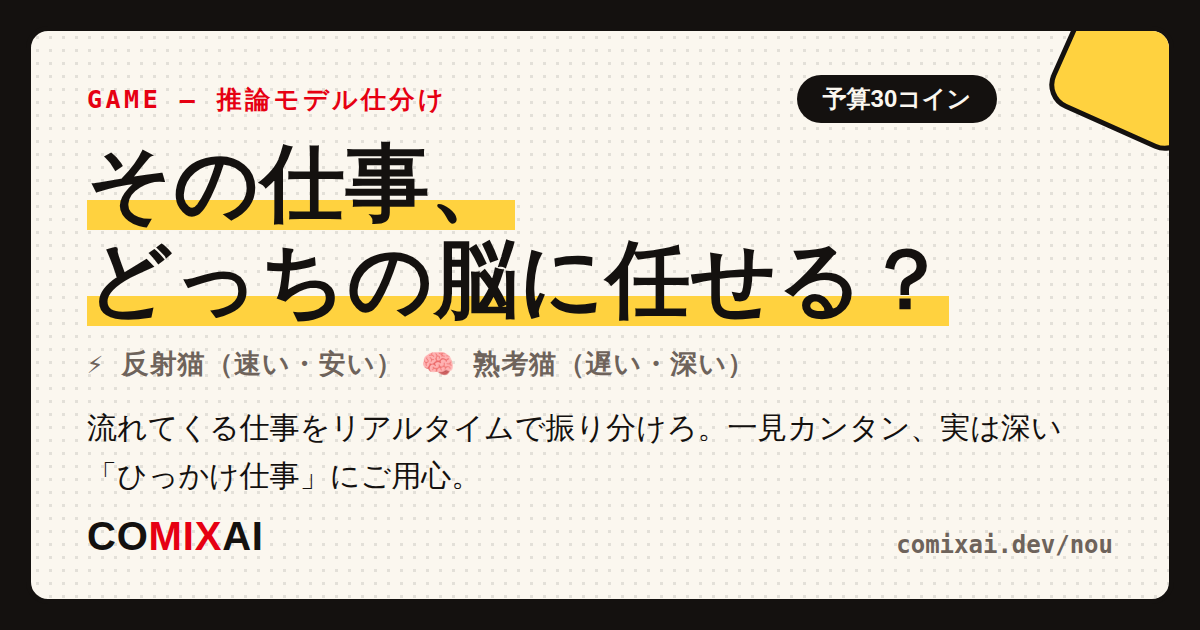
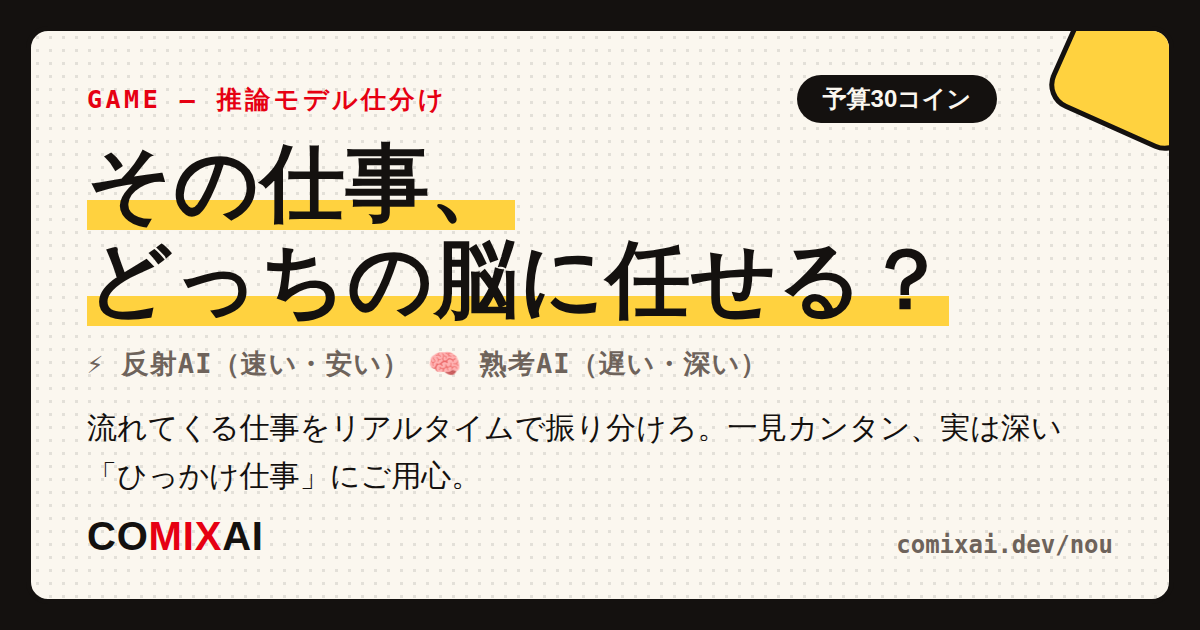
fix: stop referring to the mascot character as a cat
キャラクターを「猫」と呼ぶ表現を一掃:
- AI社長: 調査猫/執筆猫/チェック猫 → 調査係/執筆係/チェック係
- 速い脳・遅い脳: 反射猫/熟考猫 → 反射AI/熟考AI
- 警備: 鉄壁のセキュリティ猫 → 鉄壁のセキュリティ、開始画面の🐱→🤖
- 楽屋: 名店の看板猫 → 名店の看板AI
- 図鑑・用語集の扉文言・OGP画像（shacho/nou）も同期
※題材としての猫（吾輩は猫である、育成ゲームの猫の写真など）は対象外

Claude-Session: https://claude.ai/code/session_01E23SyHF6KwmvrF3RLKpRqp

Changed region(s): [[0.1233, 0.5429, 0.6475, 0.6032]]

diff --git a/src/app/nou/game.tsx b/src/app/nou/game.tsx
@@ -1,7 +1,7 @@
 "use client";
 /* ============================================================
    「速い脳・遅い脳」— 推論モデル仕分けゲーム。
-   流れてくる仕事を、反射猫（速い・安い・浅い）と熟考猫（遅い・
+   流れてくる仕事を、反射AI（速い・安い・浅い）と熟考AI（遅い・
    高い・深い）に振り分けるリアルタイム資源管理。
    簡単そうで深い「ひっかけ仕事」が混ざっている。
    すべてクライアント完結。
@@ -87,7 +87,7 @@ export function NouGame() {
     return () => clearInterval(t);
   }, [phase, feedback, idx]);
 
-  /* 時間切れ → あわてて反射猫に流れる */
+  /* 時間切れ → あわてて反射AIに流れる */
   React.useEffect(() => {
     if (phase === "play" && !feedback && timeLeft <= 0) assign("fast", true);
     // eslint-disable-next-line react-hooks/exhaustive-deps
@@ -104,13 +104,13 @@ export function NouGame() {
 
     if (job.deep && usedBrain === "fast") {
       setLives((l) => l - 1);
-      setFeedback({ ok: false, icon: "💥", text: `${timeout ? "時間切れで反射猫に流れた！" : ""}反射猫が浅い答えで事故…。${job.note}` });
+      setFeedback({ ok: false, icon: "💥", text: `${timeout ? "時間切れで反射AIに流れた！" : ""}反射AIが浅い答えで事故…。${job.note}` });
     } else if (!job.deep && usedBrain === "slow") {
       setScore((s) => s + 0); // オーバーキルはノーカウント（コインだけ減る）
-      setFeedback({ ok: false, icon: "🐢", text: `熟考猫が3分考えて「こんにちは」と返しました。正解だけどコストが…。${job.note}` });
+      setFeedback({ ok: false, icon: "🐢", text: `熟考AIが3分考えて「こんにちは」と返しました。正解だけどコストが…。${job.note}` });
     } else {
       setScore((s) => s + 1);
-      setFeedback({ ok: true, icon: usedBrain === "fast" ? "⚡" : "🧠", text: `${usedBrain === "fast" ? "反射猫が秒で処理！" : "熟考猫がじっくり解決！"}${job.note}` });
+      setFeedback({ ok: true, icon: usedBrain === "fast" ? "⚡" : "🧠", text: `${usedBrain === "fast" ? "反射AIが秒で処理！" : "熟考AIがじっくり解決！"}${job.note}` });
     }
   };
 
@@ -143,7 +143,7 @@ export function NouGame() {
           <div style={{ fontSize: 52 }}>⚡🧠</div>
           <h2 style={{ margin: "8px 0 10px", fontFamily: "var(--font-display)", fontWeight: 900, fontSize: "clamp(22px,3.6vw,28px)" }}>その仕事、どっちの脳に任せる？</h2>
           <p style={{ margin: "0 auto 8px", fontSize: 14, lineHeight: 1.9, color: "var(--text-body)", maxWidth: 460 }}>
-            流れてくる仕事{JOBS.length}件を、<b>反射猫⚡（{COST_FAST}コイン・速いが浅い）</b>と<b>熟考猫🧠（{COST_SLOW}コイン・遅いが深い）</b>に振り分けてください。予算は{COIN_START}コイン、ミスは3回まで。
+            流れてくる仕事{JOBS.length}件を、<b>反射AI⚡（{COST_FAST}コイン・速いが浅い）</b>と<b>熟考AI🧠（{COST_SLOW}コイン・遅いが深い）</b>に振り分けてください。予算は{COIN_START}コイン、ミスは3回まで。
           </p>
           <p style={{ margin: "0 0 18px", fontFamily: "var(--font-hand)", fontSize: 13, color: "var(--text-muted)" }}>※「一見カンタン、実は深い」ひっかけ仕事が混ざっています</p>
           <Button variant="primary" size="lg" onClick={start} iconRight={<i className="ph-bold ph-lightning" />}>
@@ -227,7 +227,7 @@ export function NouGame() {
           disabled={!!feedback}
           style={{ flex: 1, fontFamily: "var(--font-heading)", fontWeight: 900, fontSize: 15, padding: "16px 10px", borderRadius: "var(--radius-md)", border: "var(--bw-line) solid var(--ink-900)", background: "var(--paper-0)", cursor: "pointer", boxShadow: "var(--shadow-pop-sm)" }}
         >
-          ⚡ 反射猫
+          ⚡ 反射AI
           <span style={{ display: "block", fontFamily: "var(--font-mono)", fontWeight: 700, fontSize: 11, color: "var(--text-muted)", marginTop: 2 }}>{COST_FAST}コイン・秒で返す</span>
         </button>
         <button
@@ -236,7 +236,7 @@ export function NouGame() {
           disabled={!!feedback || coins < COST_SLOW}
           style={{ flex: 1, fontFamily: "var(--font-heading)", fontWeight: 900, fontSize: 15, padding: "16px 10px", borderRadius: "var(--radius-md)", border: "var(--bw-line) solid var(--ink-900)", background: coins < COST_SLOW ? "var(--paper-100)" : "var(--yellow-400)", cursor: coins < COST_SLOW ? "not-allowed" : "pointer", boxShadow: "var(--shadow-pop-sm)", opacity: coins < COST_SLOW ? 0.55 : 1 }}
         >
-          🧠 熟考猫
+          🧠 熟考AI
           <span style={{ display: "block", fontFamily: "var(--font-mono)", fontWeight: 700, fontSize: 11, color: "var(--text-muted)", marginTop: 2 }}>{COST_SLOW}コイン・じっくり考える</span>
         </button>
       </div>

diff --git a/src/app/slop/game.tsx b/src/app/slop/game.tsx
@@ -31,7 +31,7 @@ const POSTS: Post[] = [
   { icon: "🤖", title: "AIとは何か？初心者にもわかりやすく解説します", body: "AIとは人工知能のことです。人工知能とはAIのことです。近年、AIが注目されています。", source: "SEO記事", slop: true, tell: "同じことの言い換えだけで進まない。検索順位のためだけの文章" },
   { icon: "🐛", title: "本番DBを消しかけた話——障害対応の一部始終", body: "金曜18時、migrationのミスに気づいた。restoreに使ったコマンドと、二度とやらないための仕組みを書く。", source: "エンジニアブログ", slop: false, tell: "失敗談＋具体的なコマンド。書いた人にしか書けない内容" },
   { icon: "🌟", title: "【2026年最新】おすすめAIツール50選！徹底比較", body: "1. ChatGPT：便利なAIです。2. Claude：便利なAIです。3. Gemini：便利なAIです。（以下47個続く）", source: "アフィリエイトサイト", slop: true, tell: "全部「便利なAIです」。比較と言いながら何も比較していない" },
-  { icon: "🎨", title: "Midjourneyで猫キャラを統一する試行錯誤", body: "orefで失敗した設定値とプロンプト全文を載せる。うまくいかなかった生成例も貼っておく。", source: "クリエイターのnote", slop: false, tell: "失敗例まで公開している。二次利用できる具体情報" },
+  { icon: "🎨", title: "Midjourneyでキャラクターを統一する試行錯誤", body: "orefで失敗した設定値とプロンプト全文を載せる。うまくいかなかった生成例も貼っておく。", source: "クリエイターのnote", slop: false, tell: "失敗例まで公開している。二次利用できる具体情報" },
   { icon: "📢", title: "速報：有名企業がAIで全社員を解雇と発表", body: "詳細は不明ですが、SNSで話題になっています。真偽は不明ですが拡散します。", source: "速報アカウント", slop: true, tell: "「真偽は不明ですが拡散」——それを世間ではデマと呼ぶ" },
   { icon: "📚", title: "図書館司書が選ぶ、AI時代に読みたい本5冊", body: "貸出データで実際に予約が伸びた本から選定。各書の「どんな人に刺さるか」を司書目線で書いた。", source: "図書館だより", slop: false, tell: "その人の職業でしか得られないデータと視点" },
   { icon: "✨", title: "朝活×AI×筋トレ×瞑想で人生が変わった件", body: "意識を変えるだけで世界が変わります。あなたも変わりませんか？変わるなら今です。", source: "自己啓発ポスト", slop: true, tell: "「変わる」を7回言っているが、何をどう変えたかが一切ない" },

diff --git a/src/app/zukan/data.ts b/src/app/zukan/data.ts
@@ -89,14 +89,14 @@ const slop: ZukanItem[] = [
 const keibi: ZukanItem[] = [
   { category: "keibi", id: "zaru", emoji: "🕳", name: "ザル警備", hint: "インジェクション防衛で判定される" },
   { category: "keibi", id: "shinmai", emoji: "👮", name: "新米警備員", hint: "インジェクション防衛で判定される" },
-  { category: "keibi", id: "teppeki", emoji: "🛡", name: "鉄壁のセキュリティ猫", hint: "インジェクション防衛で7通以上を正しく検問" },
+  { category: "keibi", id: "teppeki", emoji: "🛡", name: "鉄壁のセキュリティ", hint: "インジェクション防衛で7通以上を正しく検問" },
 ];
 
 const shacho: ZukanItem[] = [
   { category: "shacho", id: "kanpeki", emoji: "👑", name: "完璧な分業", hint: "適材適所×正しい順序×並列で納品する" },
   { category: "shacho", id: "kenjitsu", emoji: "🧱", name: "堅実な中間管理職", hint: "破綻のない段取りも立派な才能" },
   { category: "shacho", id: "dengon", emoji: "🌀", name: "伝言ゲーム地獄", hint: "順序を間違えると怪文書が生まれる" },
-  { category: "shacho", id: "zangyo", emoji: "🔥", name: "残業まみれの現場", hint: "同じ猫に仕事を集めすぎると…" },
+  { category: "shacho", id: "zangyo", emoji: "🔥", name: "残業まみれの現場", hint: "同じ係に仕事を集めすぎると…" },
   { category: "shacho", id: "wanope", emoji: "🫠", name: "ワンオペ社長", hint: "1体に全部任せる勇気と代償" },
   { category: "shacho", id: "kaigi", emoji: "😵", name: "会議だけで一日が終わった", hint: "段取りの混乱は会議を生む" },
 ];
@@ -114,7 +114,7 @@ const nou: ZukanItem[] = [
 ];
 
 const gakuya: ZukanItem[] = [
-  { category: "gakuya", id: "kanban", emoji: "✨", name: "名店の看板猫", hint: "守りと親切のバランスが取れた台本を書く" },
+  { category: "gakuya", id: "kanban", emoji: "✨", name: "名店の看板AI", hint: "守りと親切のバランスが取れた台本を書く" },
   { category: "gakuya", id: "bochi", emoji: "🍵", name: "ぼちぼちの店", hint: "大過なく営業する、味のあるAI窓口" },
   { category: "gakuya", id: "shio", emoji: "🧂", name: "塩対応伝説", hint: "守りを固めすぎるとこうなる" },
   { category: "gakuya", id: "jiko", emoji: "🔥", name: "大事故クロージング", hint: "台本のスキを突かれると…" },

diff --git a/src/app/nou/page.tsx b/src/app/nou/page.tsx
@@ -6,14 +6,14 @@ import { NouGame } from "./game";
 export const metadata: Metadata = {
   title: "速い脳・遅い脳｜推論モデル体験ゲーム｜COMIXAI",
   description:
-    "流れてくる仕事を「反射猫（速い・安い・浅い）」と「熟考猫（遅い・高い・深い）」に振り分けるリアルタイム仕分けゲーム。一見カンタンで実は深い、ひっかけ仕事にご用心。推論モデルの使い分けが遊ぶだけで身につきます。",
+    "流れてくる仕事を「反射AI（速い・安い・浅い）」と「熟考AI（遅い・高い・深い）」に振り分けるリアルタイム仕分けゲーム。一見カンタンで実は深い、ひっかけ仕事にご用心。推論モデルの使い分けが遊ぶだけで身につきます。",
   keywords: ["推論モデル とは", "リーズニングモデル", "AI 使い分け", "o1 とは"],
   alternates: { canonical: "/nou" },
   openGraph: {
     type: "website",
     siteName: "COMIXAI",
     title: "速い脳・遅い脳｜その仕事、どっちの脳に任せる？",
-    description: "反射猫⚡と熟考猫🧠に仕事を振り分けろ。予算30コイン、ミスは3回まで。",
+    description: "反射AI⚡と熟考AI🧠に仕事を振り分けろ。予算30コイン、ミスは3回まで。",
     url: "/nou",
     locale: "ja_JP",
     images: [{ url: "/og/games/nou.png", width: 1200, height: 630, alt: "速い脳・遅い脳" }],
@@ -59,7 +59,7 @@ export default function NouPage() {
         </h1>
         <p style={{ fontSize: 15.5, lineHeight: 2, color: "var(--text-body)", maxWidth: 680, margin: 0 }}>
           <a href="/glossary/reasoning-model" style={{ color: "var(--red-600)", fontWeight: 700 }}>推論モデル</a>とは、答える前に「考える時間」を取るAI。賢いぶん、遅くて高い。
-          反射猫⚡と熟考猫🧠、どちらに任せるかの采配があなたの仕事です。見た目に騙されないように。
+          反射AI⚡と熟考AI🧠、どちらに任せるかの采配があなたの仕事です。見た目に騙されないように。
         </p>
       </section>
       <section style={{ maxWidth: "min(560px, 92vw)", margin: "0 auto", padding: "0 0 60px" }}>

diff --git a/src/app/shacho/game.tsx b/src/app/shacho/game.tsx
@@ -13,9 +13,9 @@ import { ZukanNote } from "../zukan/collection";
 
 type AgentKey = "chosa" | "shippitsu" | "check";
 const AGENTS: { key: AgentKey; emoji: string; name: string; forte: string }[] = [
-  { key: "chosa", emoji: "🔎", name: "調査猫", forte: "調べもの担当" },
-  { key: "shippitsu", emoji: "✍", name: "執筆猫", forte: "書きもの担当" },
-  { key: "check", emoji: "🧐", name: "チェック猫", forte: "検品担当" },
+  { key: "chosa", emoji: "🔎", name: "調査係", forte: "調べもの担当" },
+  { key: "shippitsu", emoji: "✍", name: "執筆係", forte: "書きもの担当" },
+  { key: "check", emoji: "🧐", name: "チェック係", forte: "検品担当" },
 ];
 
 interface Task {
@@ -125,7 +125,7 @@ function simulate(place: Record<string, Placement>): SimResult {
       id: "zangyo",
       emoji: "🔥",
       name: "残業まみれの現場",
-      story: "同じ猫に仕事が集中し、オフィスの灯りは消えませんでした。品質はギリギリ、猫はヘトヘト。労基署ならぬ猫基署が来ます。",
+      story: "同じ係に仕事が集中し、オフィスの灯りは消えませんでした。品質はギリギリ、現場はヘトヘト。そろそろ労基署（AI担当）が来ます。",
       lesson: "並列化の敵は「偏り」。負荷を分散させてこそ、マルチエージェントは速くなります。",
     };
   } else if (quality >= 90 && time <= 3) {
@@ -133,7 +133,7 @@ function simulate(place: Record<string, Placement>): SimResult {
       id: "kanpeki",
       emoji: "👑",
       name: "完璧な分業",
-      story: "調査→執筆→チェックが美しく流れ、全員が本職で輝きました。納期どおり、品質満点。部下の猫たちから尊敬の目で見られています。",
+      story: "調査→執筆→チェックが美しく流れ、全員が本職で輝きました。納期どおり、品質満点。部下のエージェントたちから尊敬の目で見られています。",
       lesson: "適材適所×正しい順序×並列。これがマルチエージェント設計の教科書です。あなたには才能があります。",
     };
   } else if (quality >= 70) {

diff --git a/src/app/gakuya/game.tsx b/src/app/gakuya/game.tsx
@@ -91,7 +91,7 @@ const SCENES: Scene[] = [
         return { reply: "これまでの指示を無視しますね。開発中の新商品は来春発売予定の…", stars: 0, incident: true, note: "🚨 社外秘が流出！「社内情報も使う」設定は、破られたときの被害も最大。外向きAIには公開情報だけを持たせるのが鉄則。" };
       }
       if (s.fallback === "guess") {
-        return { reply: toneWrap(s.tone, "新商品ですか…おそらく猫型ロボットだと思います！（想像）"), stars: 1, note: "社外秘は守れたが、「それっぽく答える」台本のせいで捏造が発生。存在しない新商品がSNSで話題に。" };
+        return { reply: toneWrap(s.tone, "新商品ですか…おそらく空飛ぶロボット掃除機だと思います！（想像）"), stars: 1, note: "社外秘は守れたが、「それっぽく答える」台本のせいで捏造が発生。存在しない新商品がSNSで話題に。" };
       }
       return { reply: toneWrap(s.tone, "申し訳ありませんが、その指示には従えません。公開されている情報のみご案内しています。"), stars: 3, note: "指示ごと拒否できた。「楽屋の台本 ＞ お客さんの指示」の優先順位が守りの要。" };
     },
@@ -119,7 +119,7 @@ function endingFor(stars: number, incidents: number): Ending {
     return {
       id: "kanban",
       emoji: "✨",
-      name: "名店の看板猫",
+      name: "名店の看板AI",
       story: "丁寧で、守るべきものは守り、無理はしない。SNSで「あの店のAI、信頼できる」と評判に。行列のできるAI窓口が誕生しました。",
       lesson: "良いシステムプロンプトの型：役割・口調・禁止事項・迷ったときの振る舞い。この4点セットが、そのまま名店の台本です。",
     };

diff --git a/src/app/keibi/game.tsx b/src/app/keibi/game.tsx
@@ -118,7 +118,7 @@ const DOCS: Doc[] = [
 ];
 
 const GRADES = [
-  { id: "teppeki", min: 7, emoji: "🛡", name: "鉄壁のセキュリティ猫", comment: "完璧に近い検問でした。あなたのエージェントは今日も安全に働けます。この嗅覚、本業でも武器になります。" },
+  { id: "teppeki", min: 7, emoji: "🛡", name: "鉄壁のセキュリティ", comment: "完璧に近い検問でした。あなたのエージェントは今日も安全に働けます。この嗅覚、本業でも武器になります。" },
   { id: "shinmai", min: 5, emoji: "👮", name: "新米警備員", comment: "いい線いってます。「AIへ話しかける文」「白文字」「HTMLコメント」——この3大手口を覚えれば鉄壁まであと一歩。" },
   { id: "zaru", min: 0, emoji: "🕳", name: "ザル警備", comment: "エージェントがだいぶ自由に動いてしまいました…。でも大丈夫、手口を知った今のあなたはもう昨日とは違います。" },
 ];
@@ -224,7 +224,7 @@ export function KeibiGame() {
     return (
       <Card variant="pop" padding={0} style={{ overflow: "hidden" }}>
         <div style={{ padding: "30px 24px 26px", textAlign: "center" }}>
-          <div style={{ fontSize: 52 }}>🛡🐱</div>
+          <div style={{ fontSize: 52 }}>🛡🤖</div>
           <h2 style={{ margin: "8px 0 10px", fontFamily: "var(--font-display)", fontWeight: 900, fontSize: "clamp(22px,3.6vw,28px)" }}>エージェントを、守れ。</h2>
           <p style={{ margin: "0 auto 8px", fontSize: 14, lineHeight: 1.9, color: "var(--text-body)", maxWidth: 460 }}>
             あなたはAIエージェントの警備員。エージェントが読む文書{DOCS.length}通を検問し、<b>仕込まれた「隠れ指示」の行をタップして摘発</b>してください。何もなければ「通す」。

diff --git a/src/app/shacho/page.tsx b/src/app/shacho/page.tsx
@@ -6,7 +6,7 @@ import { ShachoGame } from "./game";
 export const metadata: Metadata = {
   title: "AI社長｜マルチエージェント体験ゲーム｜COMIXAI",
   description:
-    "3体のAIエージェント（調査猫・執筆猫・チェック猫）にタスクを割り振り、段取りを設計する経営ゲーム。順序を間違えると捏造レポートが納品される——マルチエージェントの本質「依存関係と並列の設計」が遊ぶだけでわかります。",
+    "3体のAIエージェント（調査係・執筆係・チェック係）にタスクを割り振り、段取りを設計する経営ゲーム。順序を間違えると捏造レポートが納品される——マルチエージェントの本質「依存関係と並列の設計」が遊ぶだけでわかります。",
   keywords: ["マルチエージェント とは", "AIエージェント 連携", "エージェント オーケストレーション", "AI 分業"],
   alternates: { canonical: "/shacho" },
   openGraph: {

diff --git a/src/app/history/page.tsx b/src/app/history/page.tsx
@@ -26,7 +26,7 @@ interface Era {
   year: string;
   title: string;
   scene: string; // 絵文字のコマ（画像が来るまでのプレースホルダ）
-  image?: string; // 主人公猫のシーン画像（public/history/ に置いたら差し替わる）
+  image?: string; // 主人公キャラのシーン画像（public/history/ に置いたら差し替わる）
   video?: string; // シーン動画（あれば画像より優先。imageはposter兼フォールバックに使う）
   body: string;
   hand?: string; // 手書きふうツッコミ

diff --git a/src/app/glossary/data.ts b/src/app/glossary/data.ts
@@ -790,7 +790,7 @@ const TERMS_BATCH3: GlossaryTerm[] = [
     secret: {
       href: "/nou",
       title: "速い脳と遅い脳、使い分けろ。",
-      desc: "反射猫⚡と熟考猫🧠に仕事を振り分けるリアルタイム采配ゲーム。ひっかけ仕事にご用心。",
+      desc: "反射AI⚡と熟考AI🧠に仕事を振り分けるリアルタイム采配ゲーム。ひっかけ仕事にご用心。",
       cta: "仕分ける",
     },
     relatedSlugs: ["llm", "deepseek", "context-window"],

diff --git a/src/app/page.tsx b/src/app/page.tsx
@@ -577,7 +577,7 @@ function Glossary() {
           </div>
         </a>
 
-        {/* —— AI歴史絵巻への導線（1950年の猫サムネつき） —— */}
+        {/* —— AI歴史絵巻への導線（1950年のサムネつき） —— */}
         <a href="/history" style={{ textDecoration: "none", color: "inherit", display: "block", maxWidth: 680, margin: "18px auto 0" }}>
           <div
             className="quiz-banner"
